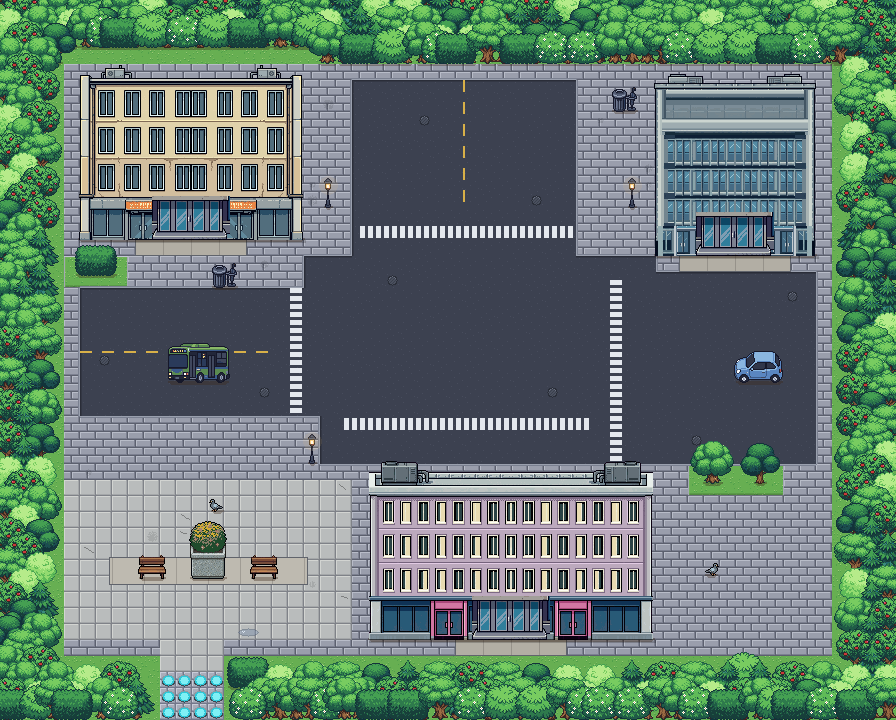
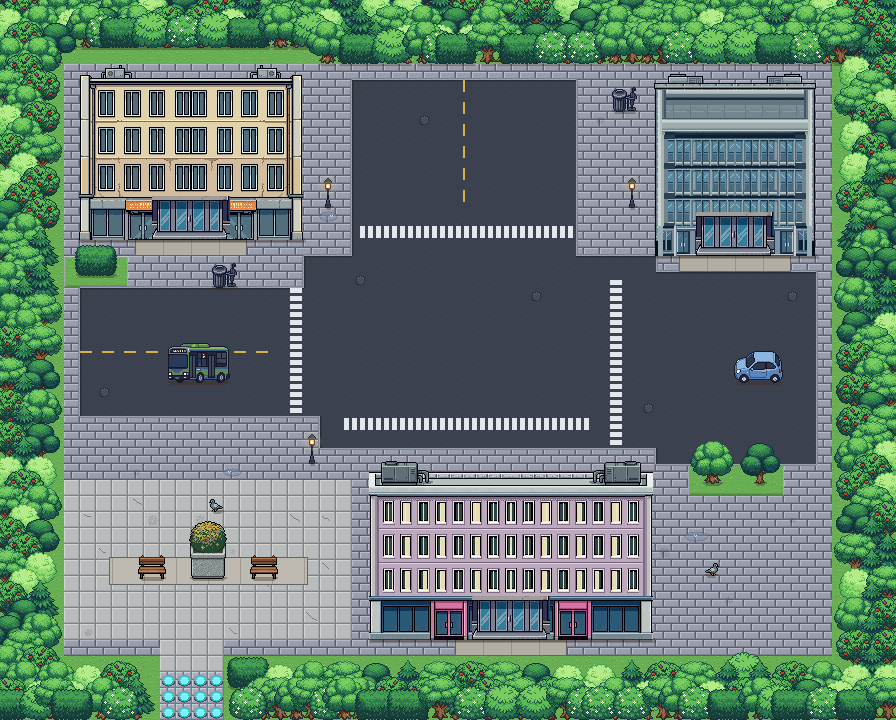
Karte 40: Pruefrunde 3 - Gehwegreihe hinter dem lila Block, GIF mit gemeinsamer Palette; Krater-Kandidaten A-D (PixelLab)
Claude-Session: https://claude.ai/code/session_01SaoYHKhnro4LFcPJqjaPsq

diff --git a/tools/pixellab_objekte.py b/tools/pixellab_objekte.py
@@ -2086,6 +2086,18 @@ OBJEKTGRUPPEN_K21 = {   # Karte 21 (Digi-Egg Valley), Stil wie Karte 20 / Karte 
         'small square grey metal roof access hatch with a handle, flat on the floor, seen from above, ' + FR14,
     ]},
     # ---- A03 Karte 39 West Shinjuku Siege
+    'k40_krater': {'size': 256, 'freie_farben': True, 'items': [   # Nutzer: Meteor-Furche (256 px: ein Motiv je Auftrag)
+        'long deep impact furrow crater seen from directly above, a straight trench gouged north to south through a dark asphalt city road, brown earth and dark soil inside, broken grey asphalt slabs and dirt pushed up and piled along the left and right rims, cracks radiating outward, no meteor visible, transparent background around the rims',
+    ]},
+    'k40_krater_b': {'size': 256, 'freie_farben': True, 'items': [   # Nutzer: Meteor-Furche (256 px: ein Motiv je Auftrag)
+        'top-down view of a long meteor impact gouge in a city street running vertically, deep scorched dark brown trench with rubble at the bottom end, chunks of torn asphalt and earth thrown outward to both sides forming raised ridges, fine radial cracks, no rock or meteor visible, transparent background',
+    ]},
+    'k40_krater_c': {'size': 256, 'freie_farben': True, 'items': [   # Nutzer: Meteor-Furche (256 px: ein Motiv je Auftrag)
+        'aerial top-down impact crater trail, elongated oval trench running from top to bottom, wider and deeper at the lower end, earth and asphalt plates bulldozed to the left and right as raised walls of dirt and broken road, a few small wisps of smoke from the bottom, no meteor visible, transparent background',
+    ]},
+    'k40_krater_d': {'size': 256, 'freie_farben': True, 'items': [   # Nutzer: Meteor-Furche (256 px: ein Motiv je Auftrag)
+        'long skid crater furrow from a fallen meteor seen from above, vertical, a deep groove of churned brown soil and gravel, edges lined with uplifted cracked asphalt slabs tilted outward, scattered debris pieces beside it, no meteor visible, transparent background',
+    ]},
     'k39_brunnen': {'size': 128, 'freie_farben': True, 'items': [
         'modern city plaza fountain: a wide round grey granite basin with clear blue water and three water jets in the '
         'middle, seen from the front and slightly above, ' + FR14,

diff --git a/tools/karte40_layout.py b/tools/karte40_layout.py
@@ -20,9 +20,9 @@ KARTE = os.path.join(ROOT, 'maps', 'karte40')
 VORLAGE = os.path.join(ROOT, 'assets', 'vorlagen', 'karte40_vorlage.png')
 C, R, T = 48, 36, 16
 RAND = 4
-STRASSEN_H = [(12, 21, 0, 15), (12, 24, 16, 36), (13, 24, 37, 47)]   # (y0, y1, x0, x1)
+STRASSEN_H = [(12, 21, 0, 15), (12, 23, 16, 36), (13, 24, 37, 47)]   # (y0, y1, x0, x1)
 STRASSEN_V = [(18, 31, 0, 11)]                                       # (x0, x1, y0, y1)
-ZEBRA = [(18, 31, 10, 10, 'h'), (17, 32, 22, 22, 'h'), (14, 14, 12, 21, 'v'), (34, 34, 13, 24, 'v')]
+ZEBRA = [(18, 31, 10, 10, 'h'), (17, 32, 22, 22, 'h'), (14, 14, 12, 21, 'v'), (34, 34, 13, 23, 'v')]
 GEBAEUDE = {'beige': (1, 1, 14, 9), 'glas': (37, 2, 46, 11), 'lila': (19, 27, 36, 35)}
 BEETE = [(0, 12, 3, 13), (39, 25, 44, 26)]                           # (x0, y0, x1, y1) Rasen mit Baeumen
 TELEPORTER_X = (6, 9)                                                # unten links (Vorlage), Weg durch den Guertel

diff --git a/tools/animation_a02.py b/tools/animation_a02.py
@@ -44,7 +44,12 @@ def main(karte, bilder=None):
     alt = (ab.OUT, ab.DAUER)
     ab.OUT, ab.DAUER = out, dauer
     if bilder:                                                    # 16 Bilder: Originalgroesse, alle Bilder behalten
-        q = [fr.quantize(colors=255, method=Image.Quantize.MAXCOVERAGE) for fr in frames]
+        # eine gemeinsame Palette fuer alle Bilder (sonst flackern ruhige Flaechen, Pruefung K40)
+        coll = Image.new('RGB', (frames[0].width, frames[0].height * len(frames)))
+        for i_, fr in enumerate(frames):
+            coll.paste(fr, (0, i_ * frames[0].height))
+        pal = coll.quantize(colors=255, method=Image.Quantize.MAXCOVERAGE)
+        q = [fr.quantize(palette=pal, dither=Image.Dither.NONE) for fr in frames]
         q[0].save(os.path.join(out, 'karte01_discord.gif'), save_all=True, append_images=q[1:], duration=dauer,
                   loop=0, disposal=1, optimize=True)
     else:
